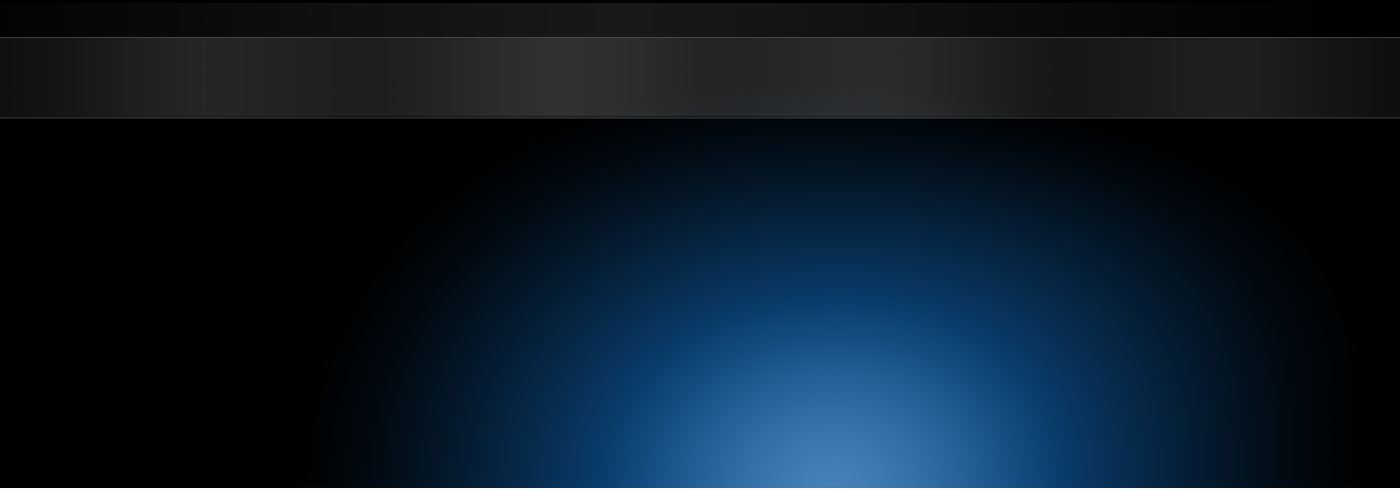
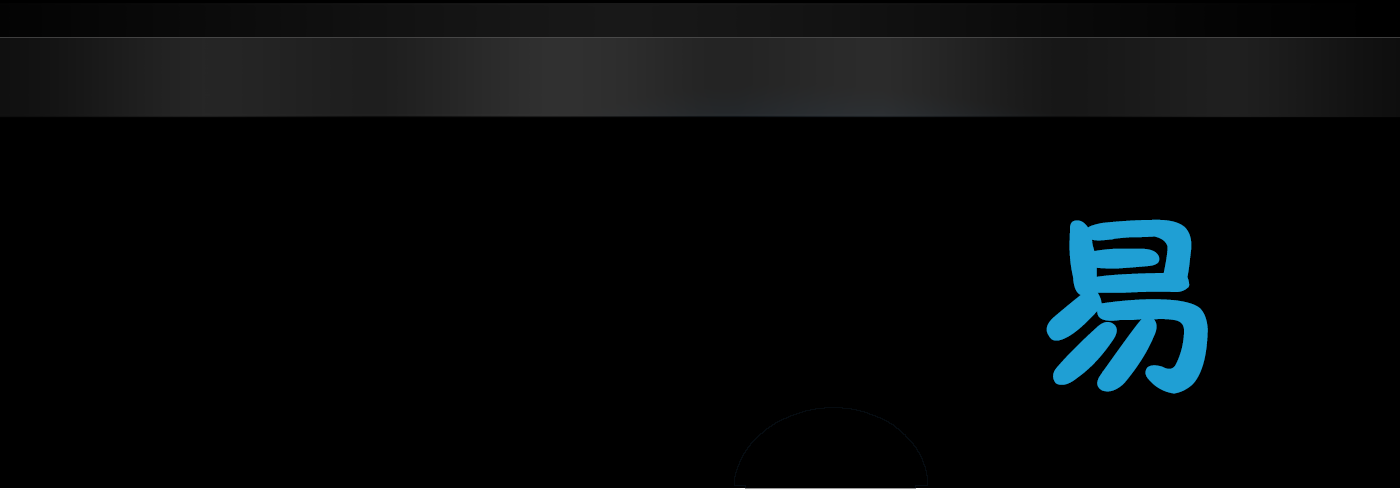
3.14

diff --git a/index.html b/index.html
@@ -2,7 +2,7 @@
 <html>
 <head>
 <meta http-equiv="Content-Type" content="text/html; charset=utf-8" />
-<title>Design Work, Free Template, HTML CSS</title>
+<title>易治网</title>
 <meta name="keywords" content="free templates, website templates, CSS, HTML" />
 <meta name="description" content="Design Work is a Free HTML CSS Template from www.webmoban.net" />
 <link href="templatemo_style.css" rel="stylesheet" type="text/css" />
@@ -40,48 +40,55 @@
             <div id="site_title"><h1><a href="#">Free CSS Templates</a></h1></div>
             <div id="templatemo_menu">
                 <ul>
-                  <li><a href="index.html" class="current">Home</a></li>
-                  <li><a href="about.html">About</a></li>
-                  <li><a href="portfolio.html">Portfolio</a></li>
-                  <li><a href="blog.html">Blog</a></li>
-                  <li><a href="contact.html" class="last">Contact</a></li>
+                  <li><a href="index.html" class="current">首页</a></li>
+                  <li><a href="index.html">2</a></li>
+                  <li><a href="index.html">3</a></li>
+                  <li><a href="index.html">4</a></li>
+                  <li><a href="index.html" class="last">5</a></li>
                 </ul>
             </div> <!-- end of templatemo_menu -->
         </div><!-- end of header -->
         
         <div id="templatemo_middle">
             <div id="mid_left">
-                <div id="mid_title">Lorem ipsum dolor sit amet</div>
-                <p>Sectetur adipisicing elit, sed do eiusmod tempor incididunt ut labore et dolore magna aliqua.</p>
-				<p>nostrud exercitation ullamco laboris nisi ut aliquip exa com consequat. Duis aute irure dolor in reprehenderit.</p>
-                <a href="https://www.webmoban.net" class="viewall"></a>
+                <div id="mid_title">护理信息学第四组成员：</div>
+                <p>唐海平 刘亚琪 梁宏超 肖琰</p>
+				<p>冯婉怡 唐诗婷 周湘锦</p>
+                <!-- <a href="https://www.webmoban.net" class="viewall"></a> -->
             </div>
-            <img src="images/templatemo_icon_01.png" alt="free for job" />
+            <!-- <img src="images/templatemo_icon_01.png" alt="free for job" /> -->
         </div> <!-- end of middle -->
         
         <div id="templatemo_main">
         
         	<div class="cbox_fw">
-                <div class="cbox_3b fp_box"><span class="b1"></span>
-                    <h4><a href="#">New Interaction</a></h4>
-                    <p>Adipisicing elit, sed do eiusm ode incididunt ut labore et dlore mag nostrud exerci.</p>
+                <!-- <div class="cbox_3b fp_box"><span class="b1"></span>
+                    <h4><a href="#">陪诊资格获取</a></h4>
+                    <p>获取陪诊资格后可以在我们网站进行陪诊服务</p>
+                </div> -->
+                <div class="cbox_3b fp_box"></span>
+                    <h4><a href="#">陪诊资格获取</a></h4>
+                    <p>获取陪诊资格后可以在我们网站进行陪诊服务</p>
                 </div>
-                <div class="cbox_3b fp_box"><span class="b2"></span>
-                    <h4><a href="#">Social Media</a></h4>
-                    <p>Mostrud exerciattion ullacom lab rure door mangae alsste formed Duis autei rure dolor in.</p>
+                <div class="cbox_3b fp_box"></span>
+                    <h4><a href="#">我要前往陪诊</a></h4>
+                    <p>你可以选择附近需要帮助的患者进行服务</p>
                 </div>
-                <div class="cbox_3b cbox_rm fp_box"><span class="b3"></span>
-                    <h4><a href="#">Digital Lifestyle</a></h4>
-                    <p>Emination delart ulllamco laboris fugaieat commondo conequat dui coluptate corp.</p>
+                <div class="cbox_3b cbox_rm fp_box"></span>
+                    <h4><a href="#">我要寻求帮助</a></h4>
+                    <p>你可以根据自己的选择以及陪诊师的资质选择陪诊师</p>
                 </div>
                 <div class="cleaner"></div>
             </div>
             
             <div class="cbox_fw">
             	<div class="cbox_large float_l">
-                	<h2>Welcome to Design Work</h2>
-                	<p><a href="#" target="_parent">Design Work</a> is a high quality <a href="https://www.webmoban.net" target="_parent">free css template</a> for your personal or commercial websites. Credit goes to <a href="#">Free Photos</a> for photos used in this template. Validate <a href="#" rel="nofollow"><strong>XHTML</strong></a> &amp; <a href="#" rel="nofollow"><strong>CSS</strong></a>. Ut enim ad minim veniamquis nostrud exercitation ullamco laboris nisi ut aliquip ex ea commodo consequat. Duis aute irure dolor in reprehenderit in voluptate veli
-</p>
+                	<h2>在我们网站能干啥？</h2>
+                	<!-- <p><a href="#" target="_parent">Design Work</a> is a high quality  for your personal or commercial websites. Credit goes to <a href="#">Free Photos</a> for photos used in this template. Validate <a href="#" rel="nofollow"><strong>XHTML</strong></a> &amp; <a href="#" rel="nofollow"><strong>CSS</strong></a>. Ut enim ad minim veniamquis nostrud exercitation ullamco laboris nisi ut aliquip ex ea commodo consequat. Duis aute irure dolor in reprehenderit in voluptate veli</p> -->
+                    <p>我们致力于帮助<a href="#" target="_parent">老年患者</a>以及<a href="#" target="_parent">不便于</a>独立在医院就诊的人群去医院治疗</p>
+                    <p>对于<a href="#" target="_parent">患者</a>:我们征求志愿者为其提供陪诊服务</p>
+                    <p>对于<a href="#" target="_parent">陪诊师</a>:我们为其提供自由就业以及兼职的机会</p>
+                    <hr>
 					<div class="cleaner h20"></div>
 					<div class="cbox_small float_l">
                     	<h5 class="tw_bullet">Interactive  Marketing</h5>
@@ -97,24 +104,27 @@
                     </div>
                 </div>
                 <div class="cbox_small float_r">
-                	<h2>Recent Posts</h2>
+                	<h2>我们帮助过的患者</h2>
                     <div class="rp_box">
                     	<img src="images/templatemo_image_09.png" alt="image 1" />
-                    	<p>Nunc varius, odio lobortis tempor mollis, sapien risus dapibus ligula...</p>
+                    	<p>张三,2023年3月22日...陪诊师...感言...</p>
+                        <p>...</p>
                         <a href="#" class="more float_r"><span>&gt;&gt;</span> Read More</a>
                       <div class="cleaner"></div>
                   	</div>
                     
                     <div class="rp_box">
                     	<img src="images/templatemo_image_07.png" alt="image 2" />
-                    	<p>Donec aliquet, neque eget mattis lacinia, dolor mauris ultricies diam...</p>
+                    	<p>李四,2023年3月22日...陪诊师...感言...</p>
+                        <p>...</p>
                         <a href="#" class="more float_r"><span>&gt;&gt;</span> Read More</a>
                       <div class="cleaner"></div>
                   	</div>
                     
                     <div class="rp_box">
                     	<img src="images/templatemo_image_08.png" alt="image 3" />
-                    	<p>Vestibulum sem urna, euismod ornare malesuada eget, vehicula id enim...</p>
+                    	<p>王五,2023年3月22日...陪诊师...感言...</p>
+                        <p>...</p>
                         <a href="#" class="more float_r"><span>&gt;&gt;</span> Read More</a>
                       <div class="cleaner"></div>
                   	</div>
@@ -126,47 +136,47 @@
         </div> <!-- end of main -->
         
         <div id="latest_works">
-        	<h2>Old Design Collection</h2>
+        	<h2 style="color: rgb(112, 35, 129);">优秀陪诊师展览</h2>
             <div id="SlideItMoo_outer">	
                 <div id="SlideItMoo_inner">			
                     <div id="SlideItMoo_items">
                         <div class="SlideItMoo_element">
                         	<span></span>
-                                <a href="https://www.webmoban.net" target="_parent">
-                                <img src="images/gallery/01.jpg" alt="product 1" /></a>
+                                <a target="_parent">
+                                <img src="images/gallery/01.png" alt="product 1" /></a>
                         </div>	
                         <div class="SlideItMoo_element"><span></span>
                                 <a href="#" target="_parent">
-                                <img src="images/gallery/04.jpg" alt="product 1" /></a>
+                                <img src="images/gallery/04.png" alt="product 1" /></a>
                         </div>
                         <div class="SlideItMoo_element"><span></span>
                                 <a href="#" target="_parent">
-                                 <img src="images/gallery/03.jpg" alt="product 1" /></a>
+                                 <img src="images/gallery/03.png" alt="product 1" /></a>
                         </div>
                         <div class="SlideItMoo_element"><span></span>
                                 <a href="#" target="_parent">
-                                <img src="images/gallery/02.jpg" alt="product 1" /></a>
+                                <img src="images/gallery/02.png" alt="product 1" /></a>
                         </div>
                         <div class="SlideItMoo_element"><span></span>
                                 <a href="#" target="_parent">
-                               <img src="images/gallery/05.jpg" alt="product 1" /></a>
+                               <img src="images/gallery/05.png" alt="product 1" /></a>
                         </div>
                         <div class="SlideItMoo_element"><span></span>
                                 <a href="#" target="_parent">
-                                <img src="images/gallery/06.jpg" alt="product 1" /></a>
+                                <img src="images/gallery/06.png" alt="product 1" /></a>
                         </div>
                     </div>			
                 </div>
 			</div> 
-            <a href="#" class="more float_r"><span>&gt;&gt;</span> View More</a>
-      	</div> <!-- end of templatemo_middle -->
+            <a href="#" class="more float_r"><span>&gt;&gt;</span> 查看更多</a>
+      	</div> 
     
     </div>
 </div>
 
 <div id="templatemo_footer_wrapper">
     <div id="templatemo_footer">
-        Copyright © 2072 <a href="#">Your Company Name</a> | Template from <a href="https://www.webmoban.net" target="_parent" title="网站模板">网站模板</a>
+        <a href="#">护理信息学第四组</a> | 唐海平 刘亚琪 冯婉怡 唐诗婷 梁宏超 梁宏超 肖琰
         <div class="cleaner"></div>
     </div>
 </div>

diff --git a/about.html b/about.html
@@ -2,7 +2,7 @@
 <html>
 <head>
 <meta http-equiv="Content-Type" content="text/html; charset=utf-8" />
-<title>Design Work, About Us, Our Company</title>
+<title>易治网</title>
 <meta name="keywords" content="free templates, our company, about us, web design, HTML" />
 <meta name="description" content="Design Work, Our Company, Free HTML CSS Template from www.webmoban.net" />
 <link href="templatemo_style.css" rel="stylesheet" type="text/css" />
@@ -155,7 +155,7 @@
 
 <div id="templatemo_footer_wrapper">
     <div id="templatemo_footer">
-        Copyright © 2072 <a href="#">Your Company Name</a> | Template from <a href="https://www.webmoban.net" target="_parent" title="网站模板">网站模板</a>
+        <a href="#">护理信息学第四组</a> | 唐海平 刘亚琪 冯婉怡 唐诗婷 梁宏超 梁宏超 肖琰
         <div class="cleaner"></div>
     </div>
 </div>

diff --git a/portfolio.html b/portfolio.html
@@ -2,7 +2,7 @@
 <html>
 <head>
 <meta http-equiv="Content-Type" content="text/html; charset=utf-8" />
-<title>Design Work, Portfolio, Free Template</title>
+<title>易治网</title>
 <meta name="keywords" content="design work, portfolio, free templates, CSS, HTML" />
 <meta name="description" content="Design Work, Portfolio, Free HTML CSS Template from www.webmoban.net" />
 <link href="templatemo_style.css" rel="stylesheet" type="text/css" />
@@ -116,7 +116,7 @@
 
 <div id="templatemo_footer_wrapper">
     <div id="templatemo_footer">
-        Copyright © 2072 <a href="#">Your Company Name</a> | Template from <a href="https://www.webmoban.net" target="_parent" title="网站模板">网站模板</a>
+        <a href="#">护理信息学第四组</a> | 唐海平 刘亚琪 冯婉怡 唐诗婷 梁宏超 梁宏超 肖琰
         <div class="cleaner"></div>
     </div>
 </div>

diff --git a/blog.html b/blog.html
@@ -2,7 +2,7 @@
 <html>
 <head>
 <meta http-equiv="Content-Type" content="text/html; charset=utf-8" />
-<title>Design Work, Free Template, Blog Page</title>
+<title>易治网</title>
 <meta name="keywords" content="free templates, blog page, CSS, HTML, templatemo" />
 <meta name="description" content="Design Work, Blog Page, Free HTML CSS Template" />
 <link href="templatemo_style.css" rel="stylesheet" type="text/css" />
@@ -205,7 +205,7 @@
 
 <div id="templatemo_footer_wrapper">
     <div id="templatemo_footer">
-        Copyright © 2072 <a href="#">Your Company Name</a> | Template from <a href="https://www.webmoban.net" target="_parent" title="网站模板">网站模板</a>
+        <a href="#">护理信息学第四组</a> | 唐海平 刘亚琪 冯婉怡 唐诗婷 梁宏超 梁宏超 肖琰
         <div class="cleaner"></div>
     </div>
 </div>

diff --git a/contact.html b/contact.html
@@ -2,7 +2,7 @@
 <html>
 <head>
 <meta http-equiv="Content-Type" content="text/html; charset=utf-8" />
-<title>Design Work, Contact Page</title>
+<title>易治网</title>
 <meta name="keywords" content="design work, contact page, free templates, CSS, HTML" />
 <meta name="description" content="Design Work, Contact Page, Free HTML CSS Template" />
 <link href="templatemo_style.css" rel="stylesheet" type="text/css" />
@@ -104,7 +104,7 @@
 
 <div id="templatemo_footer_wrapper">
     <div id="templatemo_footer">
-        Copyright © 2072 <a href="#">Your Company Name</a> | Template from <a href="https://www.webmoban.net" target="_parent" title="网站模板">网站模板</a>
+        <a href="#">护理信息学第四组</a> | 唐海平 刘亚琪 冯婉怡 唐诗婷 梁宏超 梁宏超 肖琰
         <div class="cleaner"></div>
     </div>
 </div>

diff --git a/templatemo_style.css b/templatemo_style.css
@@ -197,7 +197,7 @@ h6 { font-size: 12px; margin: 0 0 5px; padding: 0; }
 	width: 960px;
 	padding: 10px;	
 	margin: 0 auto;
-	color: #9e9b9b;
+	color: #107ddc;
 	text-align: center;
 }
 
